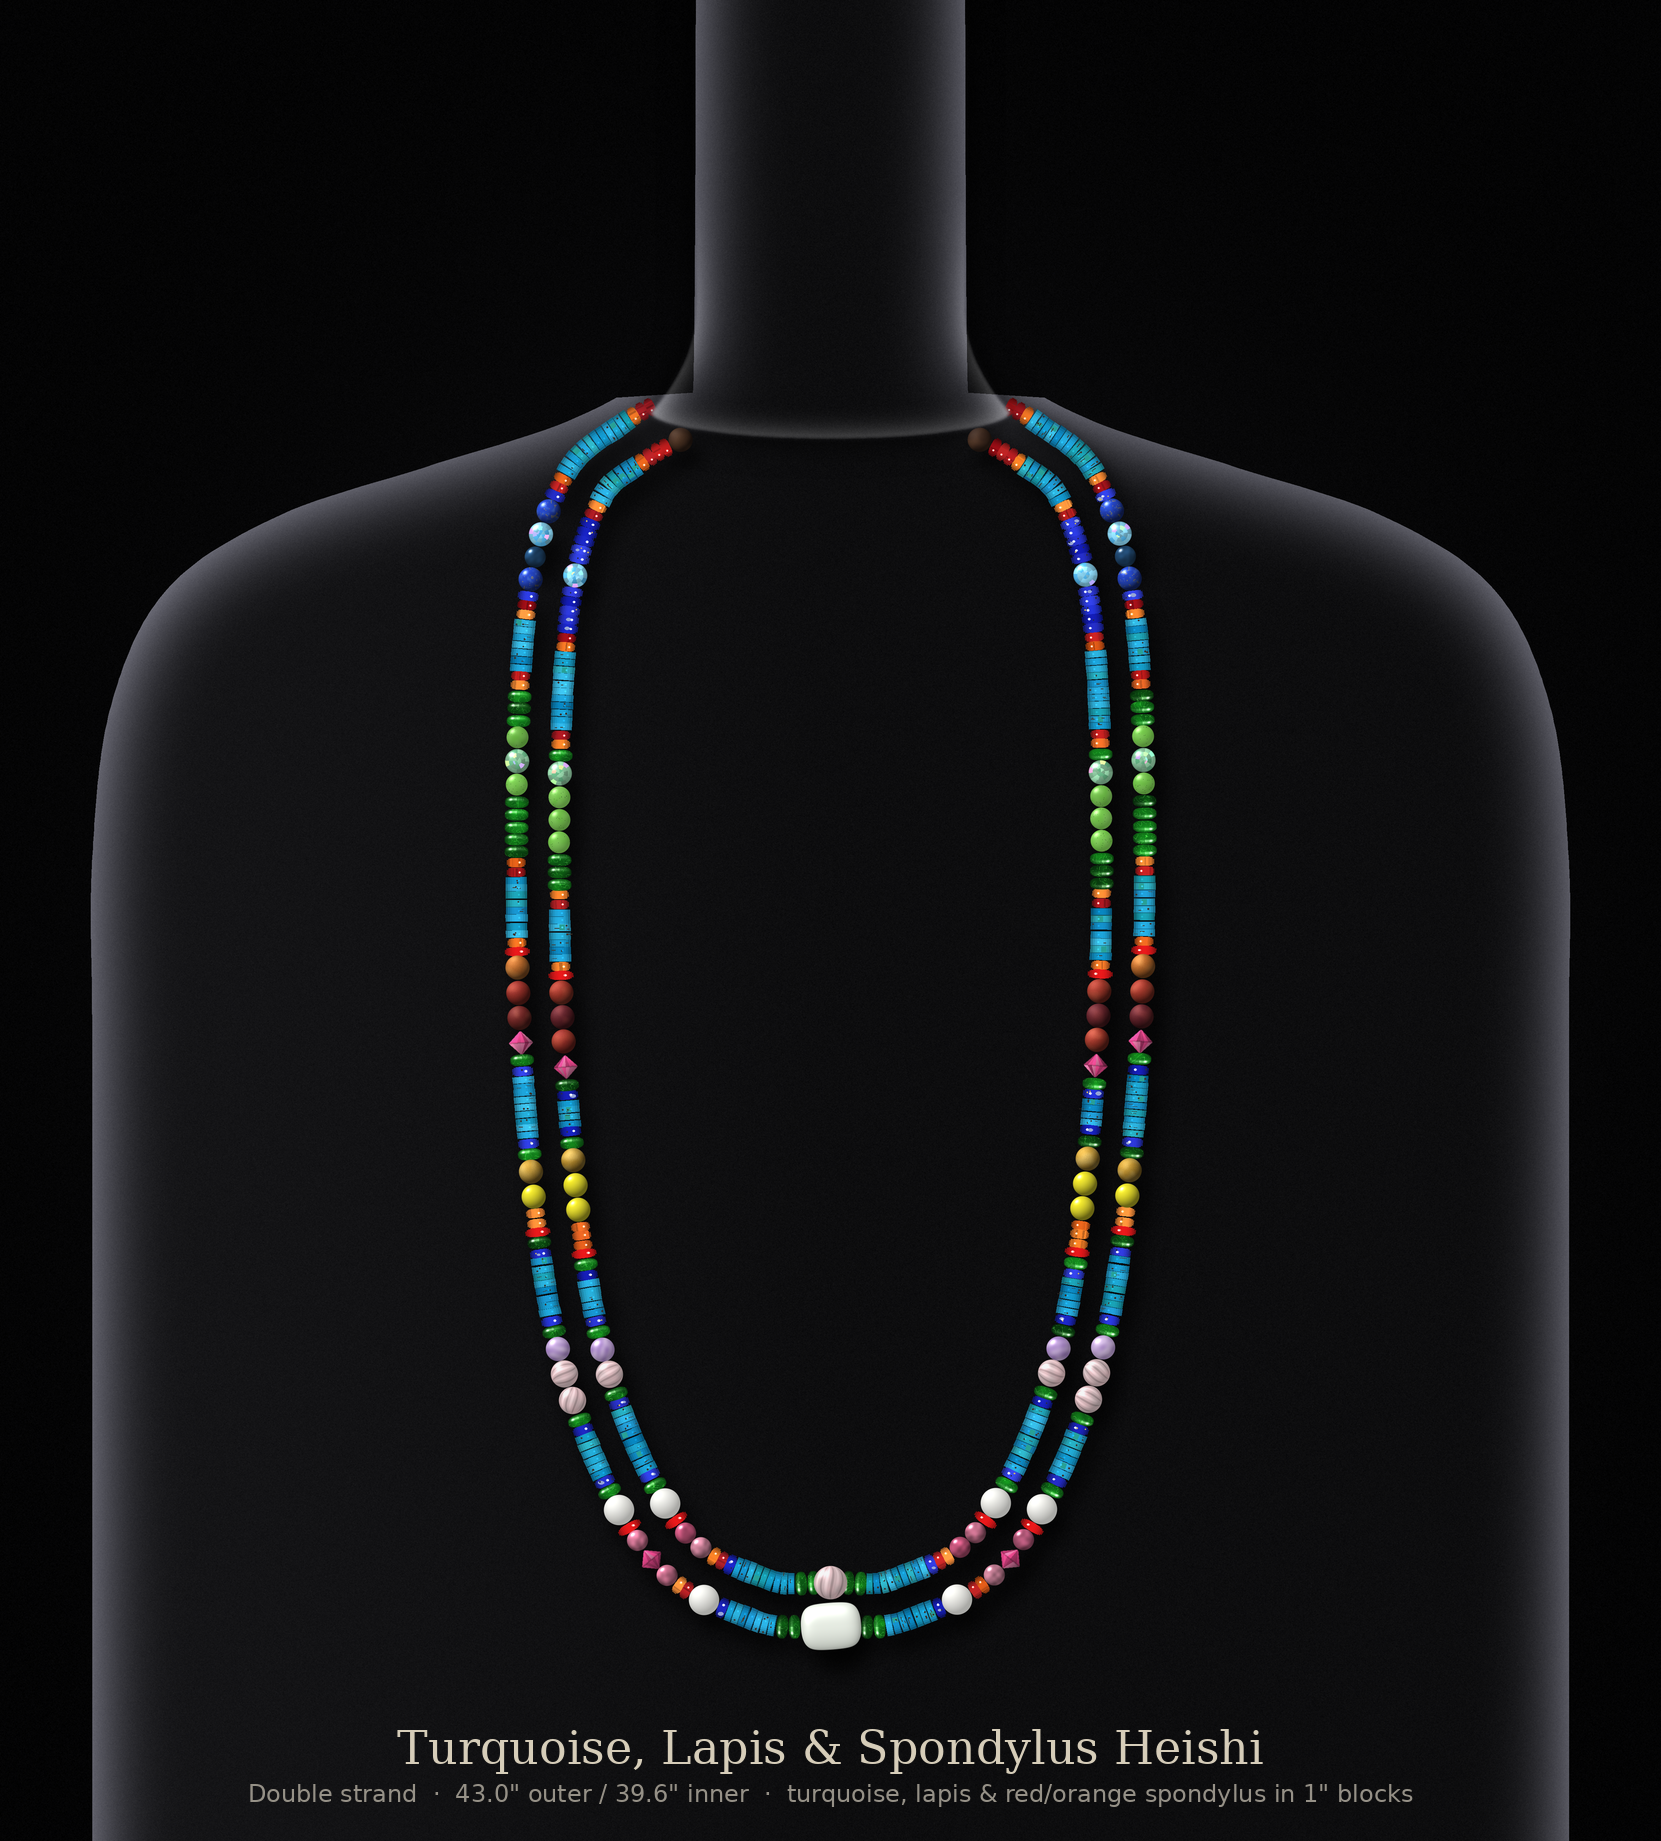
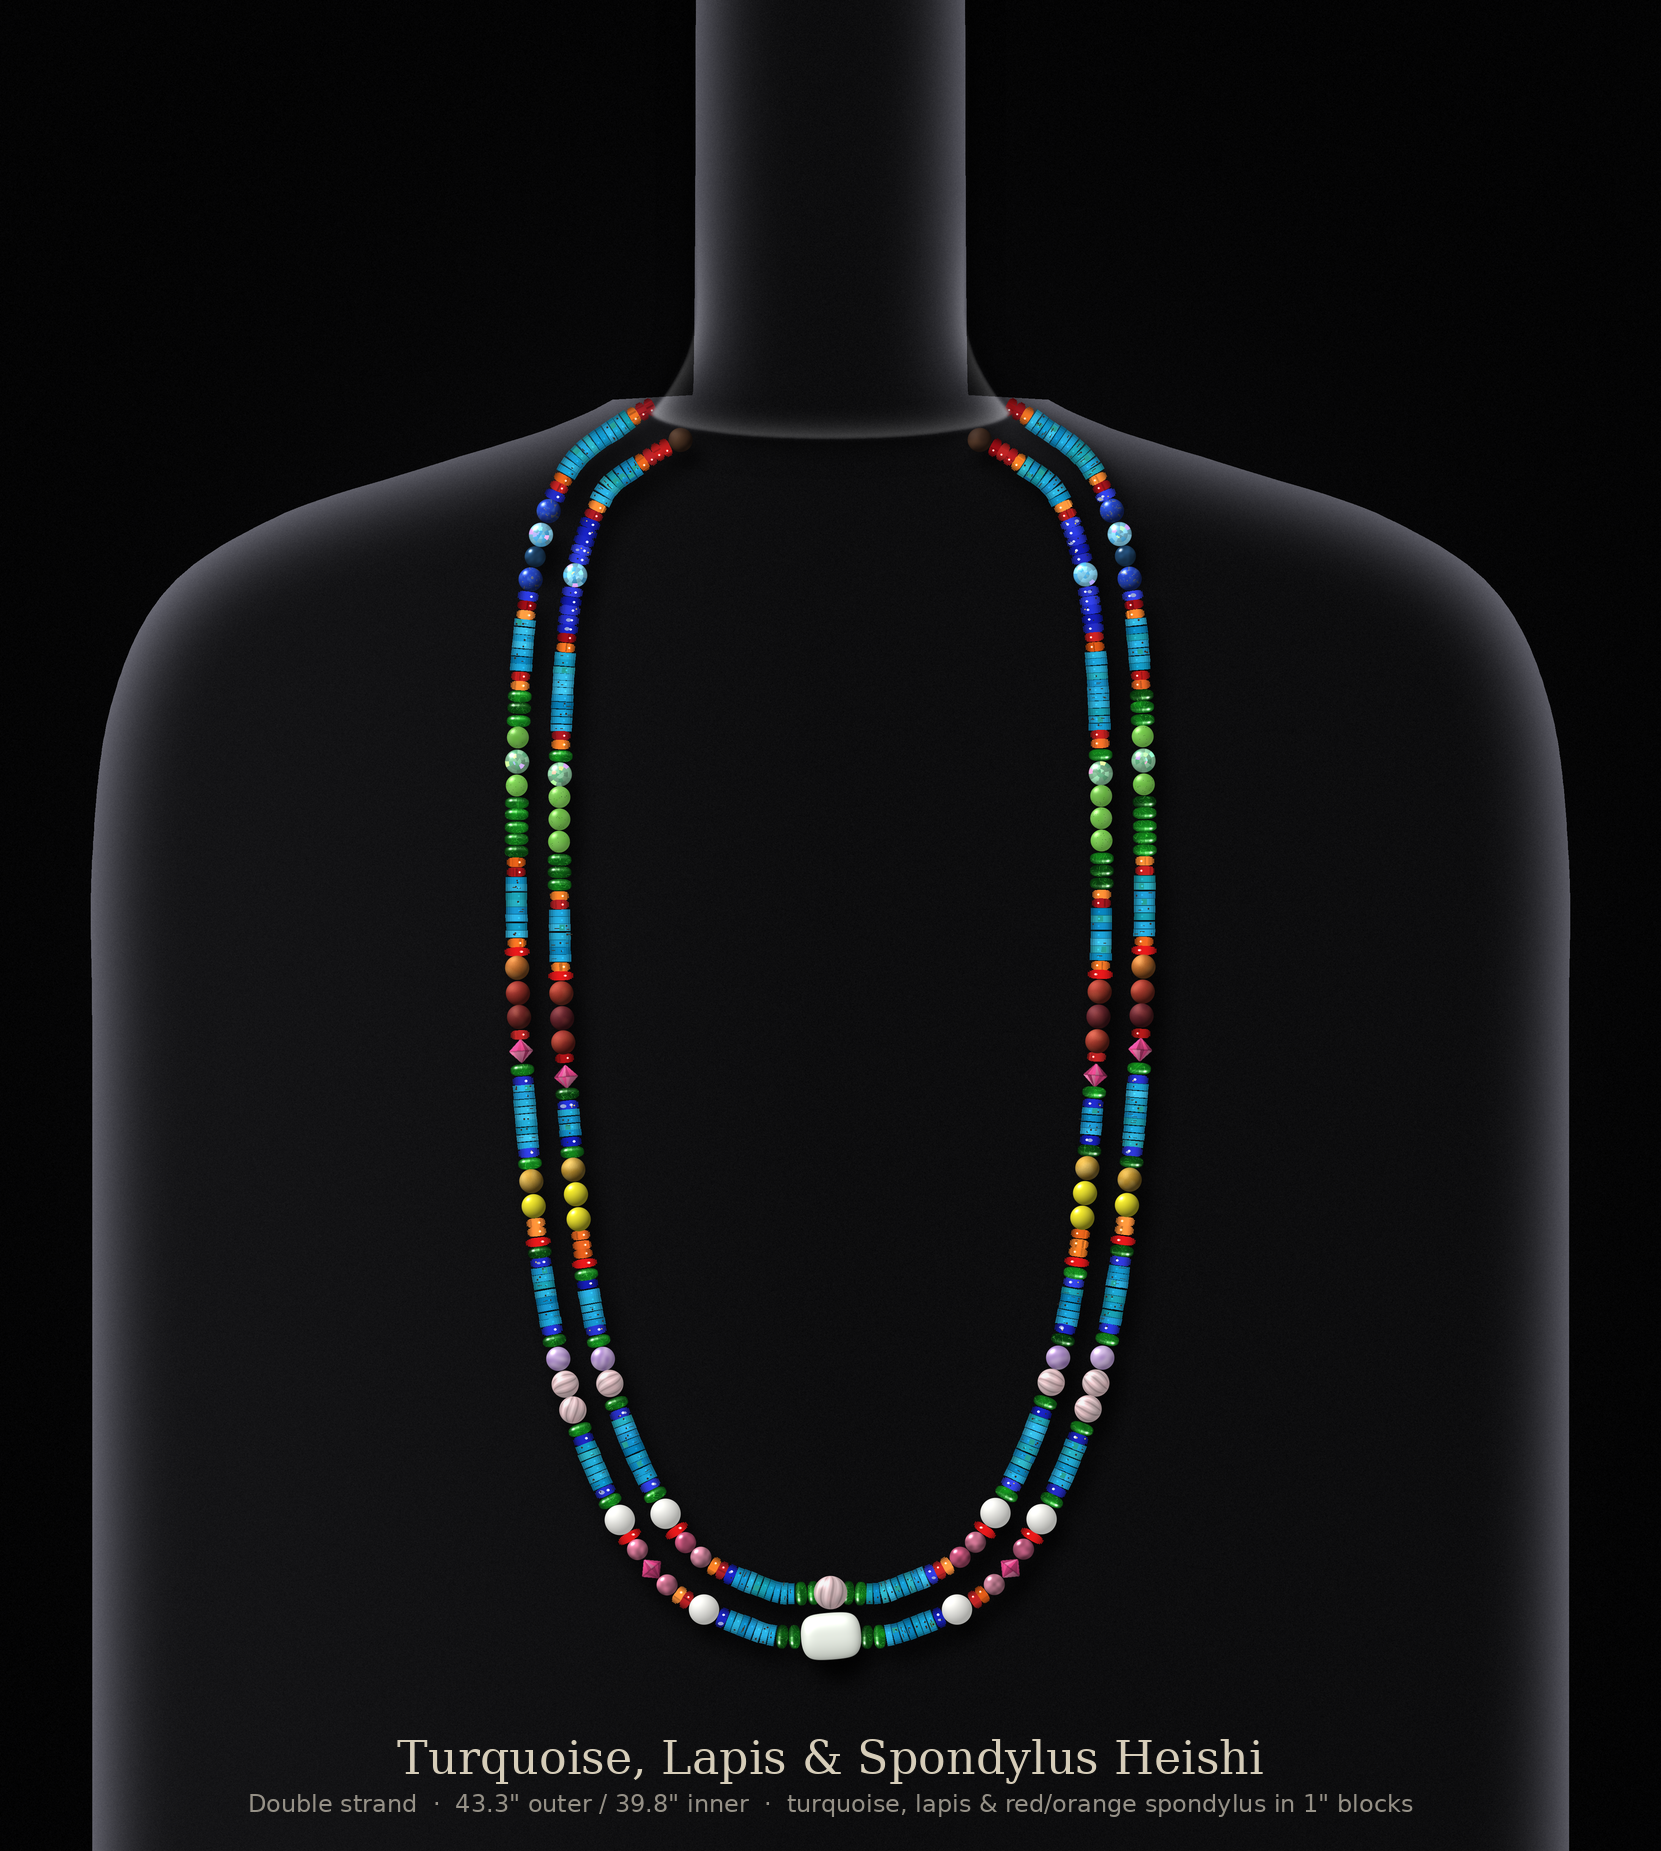
Version 5: red spiny oyster above the mookaite-band rose bicones; 43.3"
Claude-Session: https://claude.ai/code/session_014be1vF4Rdf8sv9Si75Gudv

Changed region(s): [[0.307, 0.2167, 0.7062, 0.8979]]

diff --git a/necklace/render_necklace.py b/necklace/render_necklace.py
@@ -16,7 +16,8 @@ INCH = 25.4
 EXTRAS = False   # False = base design: heishi blocks + white barrels only (jasper/hematite/jade/lapis/spondylus/tourmaline off)
 V5_EXT = 3.0 + 3 * 2.4 if V5 else 0.0   # v5: orange under the blue band + 3 more turquoise heishi below it, per side
 V5_EXT2 = 3.0 if V5 else 0.0             # v5: bottom band's lowest red glass becomes red + orange spiny oyster (+3 mm per side)
-C_OUT, GAP, BEAD_D = 42 * INCH + 2 * (V5_EXT + V5_EXT2), (11.2 if EXTRAS else (14.0 if V2 else 10.0)), 7.0   # v2: room for 18 mm naga conch
+V5_EXT3 = 3.0 if V5 else 0.0             # v5: red spiny oyster above each mookaite-band rose bicone (+3 mm per side)
+C_OUT, GAP, BEAD_D = 42 * INCH + 2 * (V5_EXT + V5_EXT2 + V5_EXT3), (11.2 if EXTRAS else (14.0 if V2 else 10.0)), 7.0   # v2: room for 18 mm naga conch
 C_IN = C_OUT - 2 * math.pi * GAP    # inner strand: 8 mm smaller radius -> ~38"
 NSEG, BPS = 42, 16                  # 1 inch blocks, ~16 heishi (1.6 mm) per block
 
@@ -1019,6 +1020,8 @@ if V4:
             assert _s[0] == "lapisH" and _s[-1] == "lapisH"
             _s[0] = "orange"                        # top only; the lapis under the rose bicone stays
         _bo.insert(len(_bo) - 1, "diop"); _bi.insert(len(_bi) - 1, "diop")   # chrome diopside right under the rose bicone, lapis below it
+        for _s in (_bo, _bi):
+            _s.insert(_s.index("rbic"), "red")      # red spiny oyster right above the rose bicone
         BANDS[6] = (_bo, _bi)
         assert all(b[-1] == "lapisH" for b in BANDS[2])
         BANDS[2] = tuple(list(b[:-1]) + ["orange"] for b in BANDS[2])   # top red band: orange instead of lapis at its lower end
@@ -1130,13 +1133,13 @@ if V4:
             gaps = [f / 2] + [f] * len(STN)
             if V5:
                 # align band centres by height: use common fractions computed from the widest of each band pair
-                Hin = (s_in[-1] + HIDDEN_IN) / 2 - SZ[CENTRE[1]] / 2 - V5_EXT - V5_EXT2   # layout at the old length
+                Hin = (s_in[-1] + HIDDEN_IN) / 2 - SZ[CENTRE[1]] / 2 - V5_EXT - V5_EXT2 - V5_EXT3   # layout at the old length
                 Wmax = [max(sum(SZ[k] for k in b[0]), sum(SZ[k] for k in b[1])) for b in BANDS]
                 gapc = (Hin - sum(Wmax)) / (len(BANDS) + 0.5)
                 cen, acc = [], gapc / 2
                 for w in Wmax:
                     cen.append((acc + w / 2) / Hin); acc += w + gapc
-                Hs = H2 - cz - V5_EXT - V5_EXT2                # layout at the old length; the extension goes in below the blue band
+                Hs = H2 - cz - V5_EXT - V5_EXT2 - V5_EXT3                # layout at the old length; the extension goes in below the blue band
                 # turquoise gaps come from the unframed layout; the extra frame width is taken from the top section
                 Wmax0 = [max(sum(SZ[k] for k in b[0]), sum(SZ[k] for k in b[1])) for b in BANDS_PREV]
                 gapc0 = (Hin - sum(Wmax0)) / (len(BANDS_PREV) + 0.5)
@@ -1158,6 +1161,7 @@ if V4:
                 widths[8] -= SZ["diop"]             # diopside above the white opal: band grows upward, room from the neck
                 widths[3] -= SZ["orange"]           # orange atop the blue band: room from the neck lapis
                 widths[3] -= SZ["orange"]           # orange under the blue band: necklace lengthened instead
+                widths[5] -= V5_EXT3                # red above the mookaite band's bicone: necklace lengthened
                 widths[8] -= V5_EXT2                # bottom band's red + orange: necklace lengthened, band grows downward
                 if st == 1:
                     widths[3] -= 2 * SZ["red"]      # inner blue's red ends: band grows upward, room from the neck lapis
@@ -1246,6 +1250,7 @@ if V4:
                 _need += SZ["orange"]
                 widths[3] += SZ["orange"]
                 widths[8] += V5_EXT2
+                widths[5] += V5_EXT3
                 gaps[4] += V5_EXT - SZ["orange"]     # 3 more turquoise heishi under the blue band (necklace a little longer)
                 for _gi, _fl in ((1, 3.0), (0, 1.0)) + (((2, 0.0),) if st == 1 else ()) + ((1, 0.0), (0, 0.0), (2, 3.0)):   # neck lapis first; any shortfall from the next run up
                     _take = min(_need, max(0.0, gaps[_gi] - _fl)); gaps[_gi] -= _take; _need -= _take
